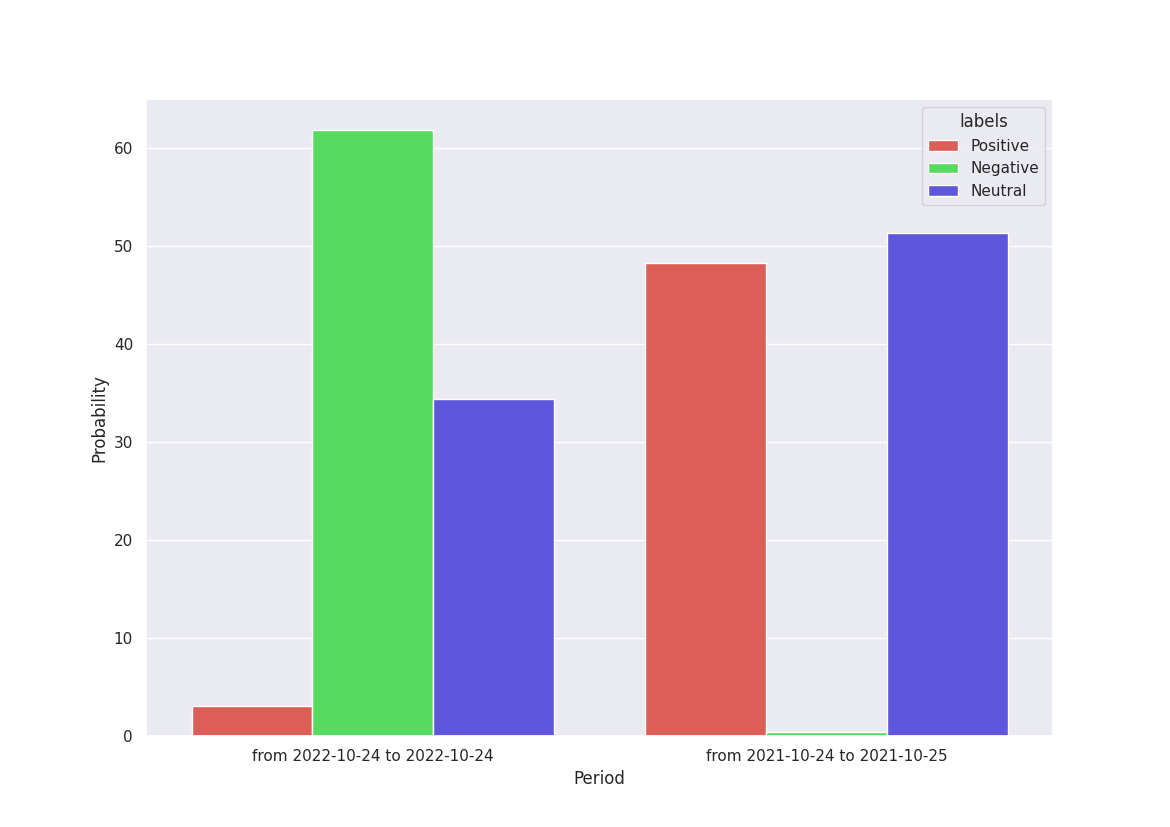
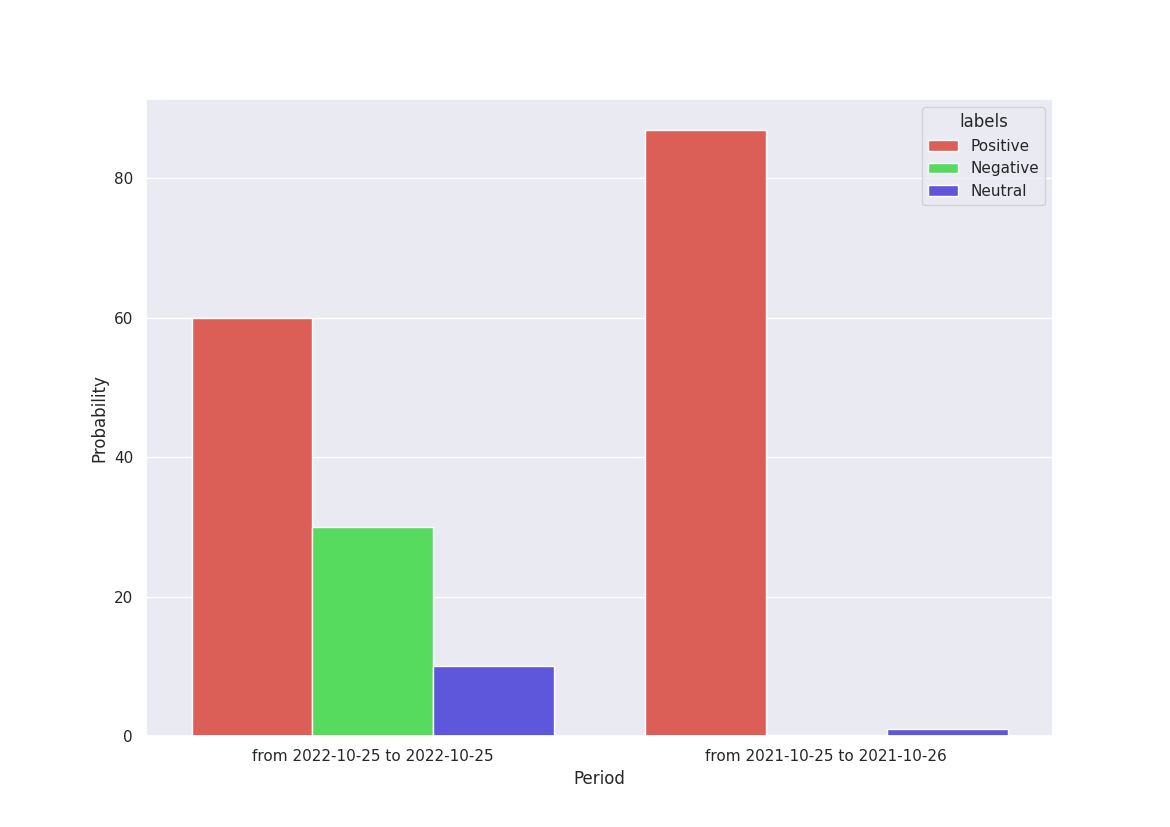
sns

diff --git a/text_analysis/base/templates/result.html b/text_analysis/base/templates/result.html
@@ -4,7 +4,7 @@
 
 {% block content %}
 <main>
-
+{{result_df_api|self}}
 
   {% if max_labels == 'Positive' %}
   <h1 style="color:rgb(44, 44, 90); font-weight: 700;">

diff --git a/text_analysis/base/views.py b/text_analysis/base/views.py
@@ -282,30 +282,30 @@ def result(request):
 ##__________________API______________________________###
 
 
-    x = get_api(text_only, lang)
+    # x = get_api(text_only, lang)
     
-    if len(x) == 4 :   # Whet get_api return False then len(get_API) = 1 else len(get_API) = 4
-        data = x[0]
-        labels = x[1]
-        n = x[2]
+    # if len(x) == 4 :   # Whet get_api return False then len(get_API) = 1 else len(get_API) = 4
+    #     data = x[0]
+    #     labels = x[1]
+    #     n = x[2]
 
-        max_data = max(data)
-        max_data_index = data.index(max(data))
-        max_labels = labels[max_data_index]
-    else :
-        data = [0, 0, 0]   # This means wa can not do setiment analysis
-        labels = ["Positive", "Negative", "Neutral"]
+    #     max_data = max(data)
+    #     max_data_index = data.index(max(data))
+    #     max_labels = labels[max_data_index]
+    # else :
+    #     data = [0, 0, 0]   # This means wa can not do setiment analysis
+    #     labels = ["Positive", "Negative", "Neutral"]
 
 
 
 
     
-    # data = [60, 30, 10]
-    # labels = ["Positive", "Negative", "Neutral"]
-    # max_data = max(data)
-    # max_data_index = data.index(max(data))
-    # max_labels = labels[max_data_index]
-    # n = 4000
+    data = [60, 30, 10]
+    labels = ["Positive", "Negative", "Neutral"]
+    max_data = max(data)
+    max_data_index = data.index(max(data))
+    max_labels = labels[max_data_index]
+    n = 4000
 
     df_date_sorted = df.sort_values(['Date'],ascending=True)
     from_date = df_date_sorted.iloc[0]['Date'].strftime("%Y-%m-%d")
@@ -340,19 +340,19 @@ def result(request):
 
 ##__________________ API 365_days_ago ______________________________###
 
-    api_365_days_ago = get_api(text_only_365_days_ago, lang)
+    # api_365_days_ago = get_api(text_only_365_days_ago, lang)
     
-    if len(api_365_days_ago) == 4 :   # Whet get_api return False then len(get_API) = 1 else len(get_API) = 4
-        data_365_days_ago = api_365_days_ago[0]
-        labels_365_days_ago = api_365_days_ago[1]
-        n_365_days_ago = api_365_days_ago[2]
-    else :
-        data_365_days_ago = [0, 0, 0]   # This means wa can not do setiment analysis
-        labels_365_days_ago = ["Positive", "Negative", "Neutral"]
+    # if len(api_365_days_ago) == 4 :   # Whet get_api return False then len(get_API) = 1 else len(get_API) = 4
+    #     data_365_days_ago = api_365_days_ago[0]
+    #     labels_365_days_ago = api_365_days_ago[1]
+    #     n_365_days_ago = api_365_days_ago[2]
+    # else :
+    #     data_365_days_ago = [0, 0, 0]   # This means wa can not do setiment analysis
+    #     labels_365_days_ago = ["Positive", "Negative", "Neutral"]
 
-    # data_365_days_ago = [86.99999999999999, 0.208, 0.9705]
-    # labels_365_days_ago = ["Positive", "Negative", "Neutral"]
-    # n_365_days_ago = 4000
+    data_365_days_ago = [86.99999999999999, 0.208, 0.9705]
+    labels_365_days_ago = ["Positive", "Negative", "Neutral"]
+    n_365_days_ago = 4000
 
 
     phrase_365 = f"from {from_date_1_year_ago} to {to_date_1_year_ago}"
@@ -457,6 +457,7 @@ def result(request):
                                         "from_to_365_days_ago":from_to_365_days_ago,
                                         "data_365_days_ago":data_365_days_ago,
                                         "labels_365_days_ago":labels_365_days_ago,
+                                        "result_df_api": result_df_api.to_html()
                                          }
                                         )
     else :
